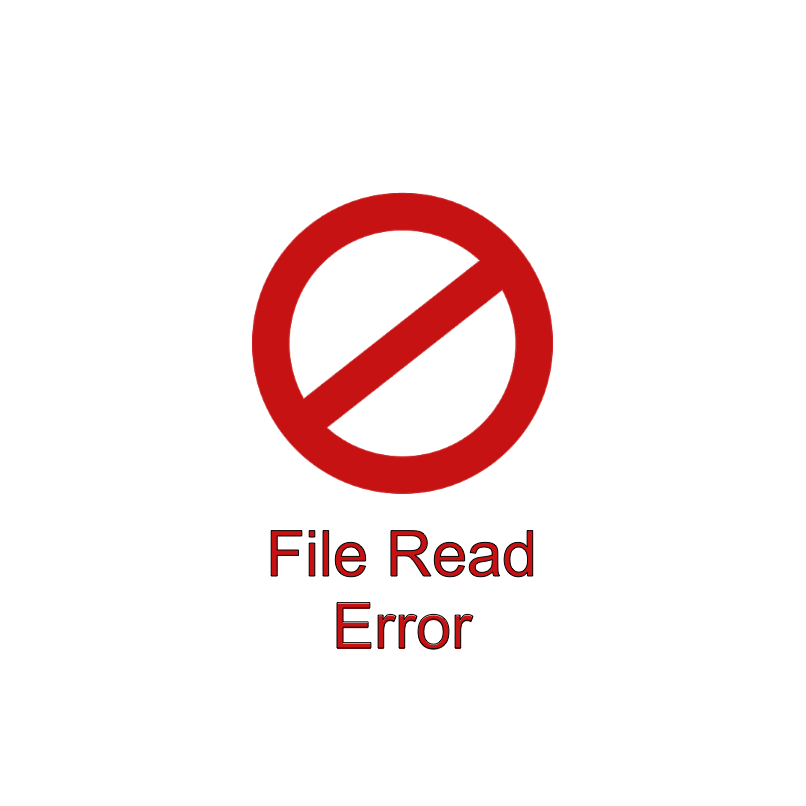
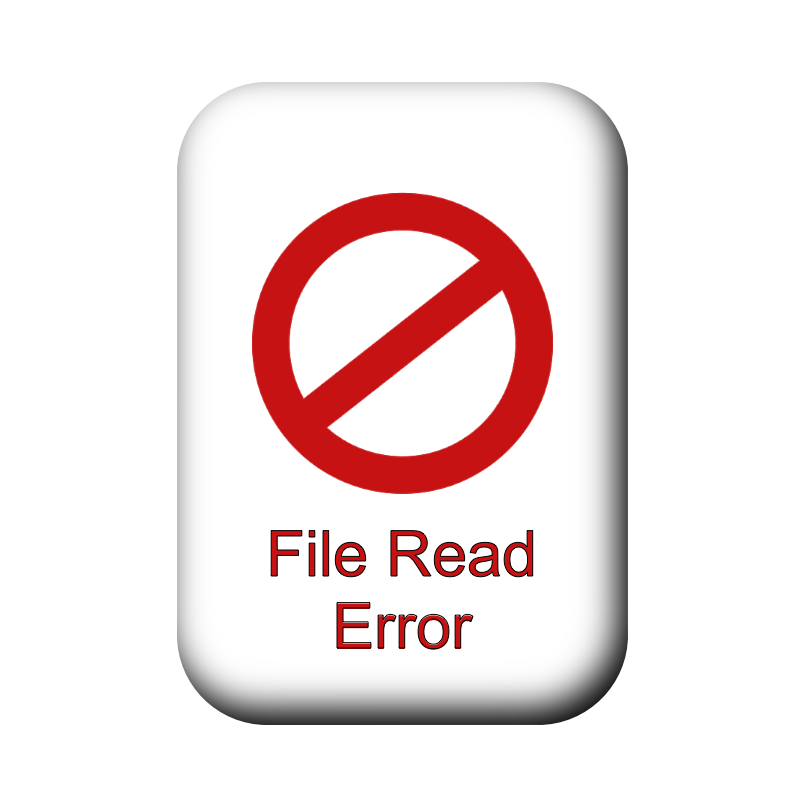
Update configuration defaults, enhance logging output, and improve image processing logic
- Increased mflux_quantize from 3 to 4 and enabled low_ram in IMAGEGEN_DEFAULTS.
- Updated logging to print configuration in a formatted JSON style for better readability.
- Adjusted logic in ImageGenController to handle slideshow states and progressive image display more effectively.
- Increased maximum entries and updated file version in generation timing stats.
- Added a user prompt separator in Lora trigger prompt guard for better formatting.
- Refactored image reference cache key to use batch size instead of width and height.
- Enabled baking of Lora weights during initialization in sceneworks Klein weights.

Changed region(s): [[0.2171, 0.0931, 0.8065, 0.8995]]

diff --git a/imagegen_plugins/image_gen_controller.py b/imagegen_plugins/image_gen_controller.py
@@ -2020,11 +2020,26 @@ class ImageGenController(QObject):
         enabled = bool(enabled)
         save_show_progressive_images(enabled)
         self._pending_values["show_progressive_images"] = enabled
-        if enabled and self._tasks.is_running() and self._output_path:
+        if (
+            enabled
+            and self._tasks.is_running()
+            and self._output_path
+            and not self._slideshow_is_active()
+        ):
             self._refresh_progressive_image(self._output_path)
 
     def _show_progressive_images_enabled(self) -> bool:
         return load_show_progressive_images()
+
+    _SLIDESHOW_VIEW_MODES = frozenset({"slideshow", "slideshow2", "slideshow3"})
+
+    def _slideshow_is_active(self) -> bool:
+        mode = getattr(self.main_window, "current_view_mode", None)
+        return mode in self._SLIDESHOW_VIEW_MODES
+
+    def _should_display_progressive_images(self) -> bool:
+        """Honor show_progressive_images unless a slideshow is running."""
+        return self._show_progressive_images_enabled() and not self._slideshow_is_active()
 
     def _active_generation_in_progress_or_cooldown(self) -> bool:
         return self._tasks.is_running() or (
@@ -2966,7 +2981,7 @@ class ImageGenController(QObject):
             )
             self.task_status_info_changed.emit()
         path = msg.get("path")
-        if path and self._show_progressive_images_enabled():
+        if path and self._should_display_progressive_images():
             step_i = int(step) if step is not None else -1
             if step_i != 0:
                 self._refresh_progressive_image(str(path))
@@ -2997,8 +3012,18 @@ class ImageGenController(QObject):
     ) -> None:
         if not output_path or not os.path.isfile(output_path):
             return
-        # Stepwise previews: match final Image Model / Prompt EXIF (skip last step).
         mw = self.main_window
+        if self._slideshow_is_active():
+            if getattr(mw, "debug_mode", False):
+                from debug_log import debug_timestamp
+
+                print(
+                    f"{debug_timestamp()} [imagegen] skip progressive browse "
+                    f"(slideshow active path={output_path})",
+                    flush=True,
+                )
+            return
+        # Stepwise previews: match final Image Model / Prompt EXIF (skip last step).
         if not force_fullscreen:
             step = self._live_step
             total = self._live_step_total

diff --git a/imagegen_plugins/mflux_flux2_klein_session.py b/imagegen_plugins/mflux_flux2_klein_session.py
@@ -36,14 +36,12 @@ def _image_stat_key(path: str) -> tuple[str, int]:
 
 def _reference_cache_key(
     image_paths: list[str],
-    width: int,
-    height: int,
+    batch_size: int,
     session_key: tuple[Any, ...],
 ) -> tuple[Any, ...]:
     return (
         session_key,
-        int(width),
-        int(height),
+        int(batch_size),
         tuple(_image_stat_key(p) for p in image_paths),
     )
 
@@ -68,7 +66,7 @@ class _VaeEncodeCache:
                 "vae_cache",
                 action="evict",
                 cache_size=self._maxsize,
-                key_basename=str(evicted_key[3])[:120] if len(evicted_key) > 3 else "",
+                key_basename=str(evicted_key[2])[:120] if len(evicted_key) > 2 else "",
             )
 
     def clear(self) -> None:
@@ -342,23 +340,20 @@ def _reference_conditioning(
     model: Any,
     image_paths: list[str],
     *,
-    width: int,
-    height: int,
     batch_size: int,
     session_key: tuple[Any, ...],
 ) -> tuple[mx.array | None, mx.array | None]:
     if not image_paths:
         return None, None
 
-    cache_key = _reference_cache_key(image_paths, width, height, session_key)
+    cache_key = _reference_cache_key(image_paths, batch_size, session_key)
     cached = _vae_cache.get(cache_key)
     if cached is not None:
         perf_log_kv(
             "vae_reference",
             cache="hit",
             num_images=len(image_paths),
-            width=width,
-            height=height,
+            batch_size=batch_size,
         )
         return cached
 
@@ -371,8 +366,6 @@ def _reference_conditioning(
         vae=model.vae,
         tiling_config=model.tiling_config,
         image_paths=[Path(p) for p in image_paths],
-        height=height,
-        width=width,
         batch_size=batch_size,
     )
     elapsed = time.perf_counter() - t0
@@ -381,8 +374,7 @@ def _reference_conditioning(
         "vae_reference",
         cache="miss",
         num_images=len(image_paths),
-        width=width,
-        height=height,
+        batch_size=batch_size,
         elapsed=elapsed,
     )
     return image_latents, image_latent_ids
@@ -464,8 +456,6 @@ def generate_flux2_klein_edit(
         image_latents, image_latent_ids = _reference_conditioning(
             model,
             image_paths,
-            width=config.width,
-            height=config.height,
             batch_size=latents.shape[0],
             session_key=session_key,
         )

diff --git a/imagegen_plugins/lora_trigger_prompt_guard.py b/imagegen_plugins/lora_trigger_prompt_guard.py
@@ -9,6 +9,8 @@ from typing import Any, Dict, Iterable, List
 from imagegen_plugins.lora_catalog import get_lora_entry
 from imagegen_plugins.mflux_lora_presets import effective_lora_ids_from_values
 
+TRIGGER_USER_PROMPT_SEPARATOR = "------"
+
 
 def prompt_contains_lora_trigger(prompt: str, trigger: str) -> bool:
     """True when trigger appears in prompt as a phrase or whole token."""
@@ -33,11 +35,12 @@ def _format_prompt_with_triggers(prompt_s: str, trigger_block: str) -> str:
         return prompt_s
     if not prompt_s:
         return block
+    sep = TRIGGER_USER_PROMPT_SEPARATOR
     if TRIGGER_POSITION == 0:
-        return f"{block}\n\n{prompt_s}"
+        return f"{block}\n\n{sep}\n\n{prompt_s}"
     if TRIGGER_POSITION == 2:
-        return f"{block}\n\n{prompt_s}\n\n{block}"
-    return f"{prompt_s}\n\n{block}"
+        return f"{block}\n\n{sep}\n\n{prompt_s}\n\n{sep}\n\n{block}"
+    return f"{prompt_s}\n\n{sep}\n\n{block}"
 
 
 def ensure_triggers_in_prompt(prompt: str, triggers: Iterable[str]) -> str:

diff --git a/prowser.py b/prowser.py
@@ -1472,10 +1472,10 @@ def main():
         if window.debug_mode:
             from debug_log import debug_timestamp
 
-            print(f"\n{debug_timestamp()} Window.show is starting with configuration: {CYAN}{configuration}{RESET}")
+            print(f"\n{debug_timestamp()} Window.show is starting with configuration: {CYAN}{json.dumps(configuration,indent=2)}{RESET}")
        
         else:
-            print(f"\nWindow.show is starting with configuration: {CYAN}{configuration}{RESET}")
+            print(f"\nWindow.show is starting with configuration: {CYAN}{json.dumps(configuration,indent=2)}{RESET}")
        
         window.show()
         _startup_profile_mark("window_show")

diff --git a/config.py b/config.py
@@ -948,10 +948,10 @@ IMAGEGEN_DEFAULTS = {
                 "height": 1024,
                 "steps": 4,
                 "guidance_scale": 3.5,
-                "mflux_quantize": 3,
+                "mflux_quantize": 4,
                 "seed": 0,
                 "random_seed": True,
-                "low_ram": False,
+                "low_ram": True,
             },
             "z_image_turbo_sdnq_int8": {
                 "prompt": "",

diff --git a/imagegen_plugins/generation_timing_stats.py b/imagegen_plugins/generation_timing_stats.py
@@ -11,8 +11,8 @@ from typing import Any, Dict, List, Optional, Tuple
 
 from imagegen_plugins.image_gen_registry import ImageGenModelPlugin
 
-_MAX_ENTRIES = 200
-_FILE_VERSION = 2
+_MAX_ENTRIES = 3000
+_FILE_VERSION = 3
 GenerationTimingKey = Tuple[Any, ...]
 
 _store: OrderedDict[GenerationTimingKey, "_TimingEntry"] = OrderedDict()

diff --git a/imagegen_plugins/sceneworks_klein_mlx_weights.py b/imagegen_plugins/sceneworks_klein_mlx_weights.py
@@ -167,7 +167,7 @@ def init_flux2_klein_from_sceneworks_tier(
     )
     WeightApplier._set_weights(weights, models, components)
     model.bits = bits
-    Flux2Initializer._apply_lora(model, lora_paths, lora_scales)
+    Flux2Initializer._apply_lora(model, lora_paths, lora_scales, bake_lora=True)
     return model
 
 
